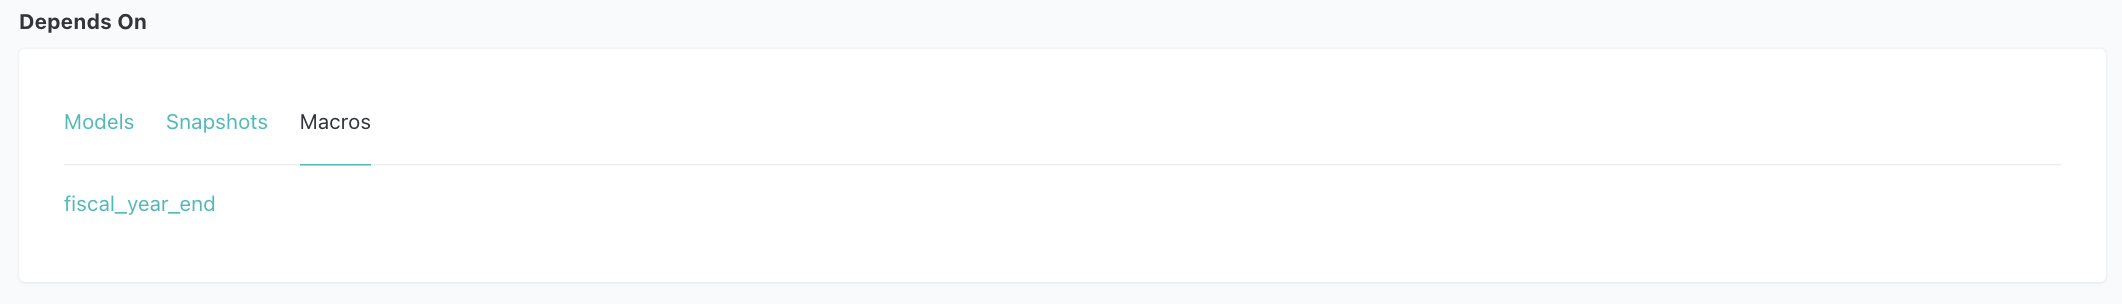
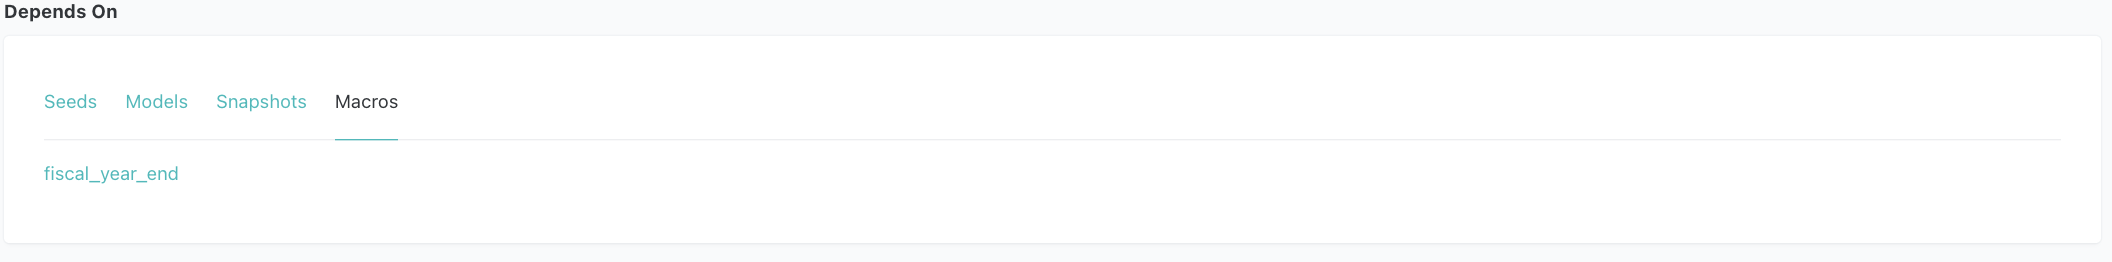
docs: review and improve README sections 4-10

diff --git a/README.md b/README.md
@@ -277,41 +277,47 @@ This project moves beyond simple ETL by embedding **Accounting Principles** into
 
 ### 3. Returns & Refund Reconciliation
 * **File**: 📂 `models/marts/finance/refund_reconciliation.sql`
-* **Objective**: Developed a mechanism to **link refund events back to their original `order_id`**, moving away from treating refunds as isolated negative flows to provide a holistic view of the order lifecycle.
+* **Objective**: Aggregates returned item amounts to `order_id` grain, moving away from treating refunds as isolated negative flows to provide a holistic view of the order lifecycle.
 * **Revenue Reversal Integrity**: Ensured accurate **Net Revenue** calculation by accounting for historical reversals, eliminating the risk of overstated top-line metrics.
-* **Audit Trail**: Created a `refund_type` classification and `refund_rate` metrics to identify high-risk return patterns, providing transparency for stakeholders and internal auditors.
+* **Audit Trail**: Created a `refund_type` classification (`NO REFUND` / `FULLY REFUNDED` / `PARTIALLY REFUNDED`) and `refund_value_rate` / `refund_count_rate` metrics to identify high-risk return patterns, providing transparency for stakeholders and internal auditors.
 
     - **Data Limitation (Acknowledged)**: The thelook_ecommerce BigQuery dataset synchronizes statuses at the order-header level — all items within a single `order_id` share the same status. As a result, **partial refund scenarios are structurally absent from the historical source data**. This is a known limitation of the dataset, not a pipeline issue.
 
     - **Solution — Ongoing Simulation via Airflow** (📂 `scripts/generate_daily_incremental.py`): The daily pipeline generates synthetic orders that include partial refund scenarios (15% probability — one item returned, another completed within the same `order_id`). These flow through a dedicated staging layer (`stg_incremental__*`) and UNION into the intermediate models alongside BigQuery data — ensuring partial refund detection logic is continuously exercised on incoming data.
 
-    - **Logic Verification**: The reconciliation model accurately links refund events back to their original `order_id`, correctly identifying 'PARTIALLY REFUNDED' cases and calculating precise `refund_count_rate` and `refund_value_rate`.
+    - **Logic Verification**: The reconciliation model correctly identifies 'PARTIALLY REFUNDED' cases and calculates precise `refund_count_rate` and `refund_value_rate` at `order_id` grain.
 
 ### 4. Financial Inventory Control & Valuation (Specific Identification)
 * **File**: 📂 `models/marts/finance/inventory_fiscal_report.sql`
 * **Methodology (Specific Identification & Cut-off)**: Implemented item-level cost tracking by following each `inventory_item_id` from inbound receipt to outbound sale — a **Specific Identification** approach that provides a granular audit trail and precise COGS calculation without the pooling assumptions of FIFO/LIFO.
 * **Annual Reconciliation (Audit-Ready)**: Developed a fiscal-year snapshot engine that reconciles **Beginning Inventory + Purchases - Ending Inventory = COGS**.
 * **Lower of Cost or Market (LCM)**: Engineered automated valuation logic that compares `historical_unit_cost` against the **period-end market price** sourced from the `scd_products` Type 2 snapshot (effective as of December 31st of each fiscal year). This ensures the LCM write-down reflects actual year-end market conditions — not the price frozen at inbound receipt — calculating the correct "Allowance for Inventory Valuation" for Balance Sheet reporting.
-* **Inventory Aging & Velocity**: Developed an aging engine that buckets inventory into 1/2/3/4-year categories. Combined this with **Inventory Turnover Ratios** at the product level to identify high-risk, slow-moving assets.
+* **Inventory Aging & Velocity**: Developed an aging engine that buckets inventory into four categories (`<2yr` / `2–3yr` / `3–4yr` / `>4yr`). Combined this with **Inventory Turnover Ratios** at the product level to identify high-risk, slow-moving assets.
 * **Audit Materiality by Category**: Joined 📂 `seeds/audit_materiality_thresholds.csv` — a CPA-defined lookup table assigning `risk_tier` (High / Medium / Low) and `materiality_threshold` ($10K / $5K / $2.5K) to each of the 26 product categories — directly into the mart. This exposes category-level audit priority alongside financial metrics, enabling threshold-based exception filtering without hardcoded values.
 * **Data Integrity**: Applied rigorous dbt tests and intermediate-layer cleansing to enforce accounting principles, such as maintaining **chronological flow** (Inbound ≤ Outbound) and preventing negative inventory durations.
 
-#### Model Detail: inventory_fiscal_report
-> Below is the technical documentation of the final audit mart, demonstrating the integration of accounting principles and data engineering.
+#### Model Detail: `inventory_fiscal_report` (Representative Example)
+> The most complex mart in the project — wiring together a snapshot (point-in-time LCM pricing), a macro (fiscal year-end date), a seed (CPA-defined materiality thresholds), and multi-year LAG logic into a single audit-ready model. Used here to illustrate how dbt features and accounting principles converge in practice.
 
+**Metadata & Governance**
+Tags (`financial`, `audit_ready`), access level (`protected`), and model description ensure the model's purpose and governance are transparent for financial stakeholders.
 ![Model Metadata](./images/model_header.png)
-* **Metadata & Governance**: Tags (`audit_ready`) and descriptions ensure the model's purpose is transparent for financial stakeholders.
 
-![Financial Columns](./images/model_columns.png)
-* **Accounting Logic Implementation**: Includes granular fields for NRV, LCM, and a dedicated `audit_check_diff` for automated reconciliation.
+**Accounting Logic Implementation**
+21 columns covering the full inventory lifecycle — B/S metrics (`beginning_inv_value`, `ending_gross_inv_value`, `ending_allowance_lcm`, `ending_net_realizable_value`), P&L metrics (`period_cogs_amount`, `period_revenue`), audit fields (`audit_check_diff`, `risk_tier`, `materiality_threshold`), and financial ratios (`inventory_turnover_ratio`, `gross_profit_margin`).
+![Financial Columns 1](./images/model_columns_1.png)
+![Financial Columns 2](./images/model_columns_2.png)
 
+**Automated Internal Controls**
+7 dbt tests enforcing: `not_null` on `fiscal_year`, `product_id`, `risk_tier`; `accepted_values` on `audit_check_diff` (must be `0`), `inventory_risk_rating` (Healthy / Warning: Slow Moving / Critical: Obsolete / Adjustment Required: NRV < Cost), `risk_tier` (High / Medium / Low); and `unique_combination_of_columns` on `(fiscal_year, product_id)`.
 ![Data Tests](./images/model_data_tests.png)
-* **Automated Internal Controls**: Integrated dbt tests to enforce zero-variance (`audit_check_diff == 0`), composite PK uniqueness `(fiscal_year, product_id)`, and valid inventory health ratings.
 
+**Dependency Graph**
+Depends on `int_inventory_items_joined` (model), `scd_products` (snapshot), `fiscal_year_end` (macro), and `audit_materiality_thresholds` (seed) — all four dbt node types wired into a single model.
+![Depends On Seeds](./images/model_depends_seeds.png)
 ![Depends On Models](./images/model_depends_models.png)
 ![Depends On Snapshots](./images/model_depends_snapshot.png)
 ![Depends On Macros](./images/model_depends_macro.png)
-* **Dependency Graph**: `inventory_fiscal_report` depends on `int_inventory_items_joined` (model), `scd_products` (snapshot), and `fiscal_year_end` (macro) — dbt's model, snapshot, and macro features all wired together in a single financial reporting model.
 
 ---
 
@@ -359,8 +365,9 @@ audit_ready_dbt:
 ```bash
 python3 -m venv venv
 source venv/bin/activate
-pip install dbt-duckdb dbt-metricflow google-cloud-bigquery pandas pyarrow
+pip install dbt-duckdb dbt-bigquery dbt-metricflow google-cloud-bigquery pandas pyarrow
 ```
+> `dbt-bigquery` is only required if you intend to run against the BigQuery `prod` target.
 
 ### Step 4 — Set up BigQuery credentials
 - Create a [Google Cloud service account](https://console.cloud.google.com/iam-admin/serviceaccounts) with **BigQuery Data Viewer** and **BigQuery Job User** roles
@@ -380,11 +387,6 @@ dbt deps
 ### Step 7 — Run the pipeline
 
 From Step 7 onwards, you can either run the pipeline **manually** or let **Airflow** handle it.
-
-> **Note**: `inventory_fiscal_report` is excluded from the Airflow DAG (annual full-refresh model). Run it manually regardless of which option you choose.
-> ```bash
-> dbt run --select inventory_fiscal_report
-> ```
 
 #### Option A — Manual
 ```bash
@@ -408,6 +410,12 @@ Enable the `dbt_daily_incremental` DAG — it runs automatically at 09:00 UTC da
 
 The DAG handles `generate_daily_incremental.py → dbt seed → dbt snapshot → dbt run (incremental) → dbt test` on every run.
 
+> **Note**: `inventory_fiscal_report` is excluded from the Airflow DAG (annual full-refresh model — not suited for daily incremental runs). Run it manually after the DAG completes:
+> ```bash
+> dbt run --select inventory_fiscal_report
+> ```
+
+
 ### Step 8 — Query metrics via Semantic Layer
 ```bash
 # Validate semantic model definitions
@@ -415,3 +423,10 @@ mf validate-configs
 ```
 
 See [Semantic Layer — Example Queries](#10-semantic-layer-metricflow) above for `mf query` usage.
+
+### Step 9 — Browse dbt documentation *(optional)*
+```bash
+dbt docs generate
+dbt docs serve
+```
+Open **http://localhost:8080** to explore model metadata, column descriptions, data tests, and the full dependency graph.
